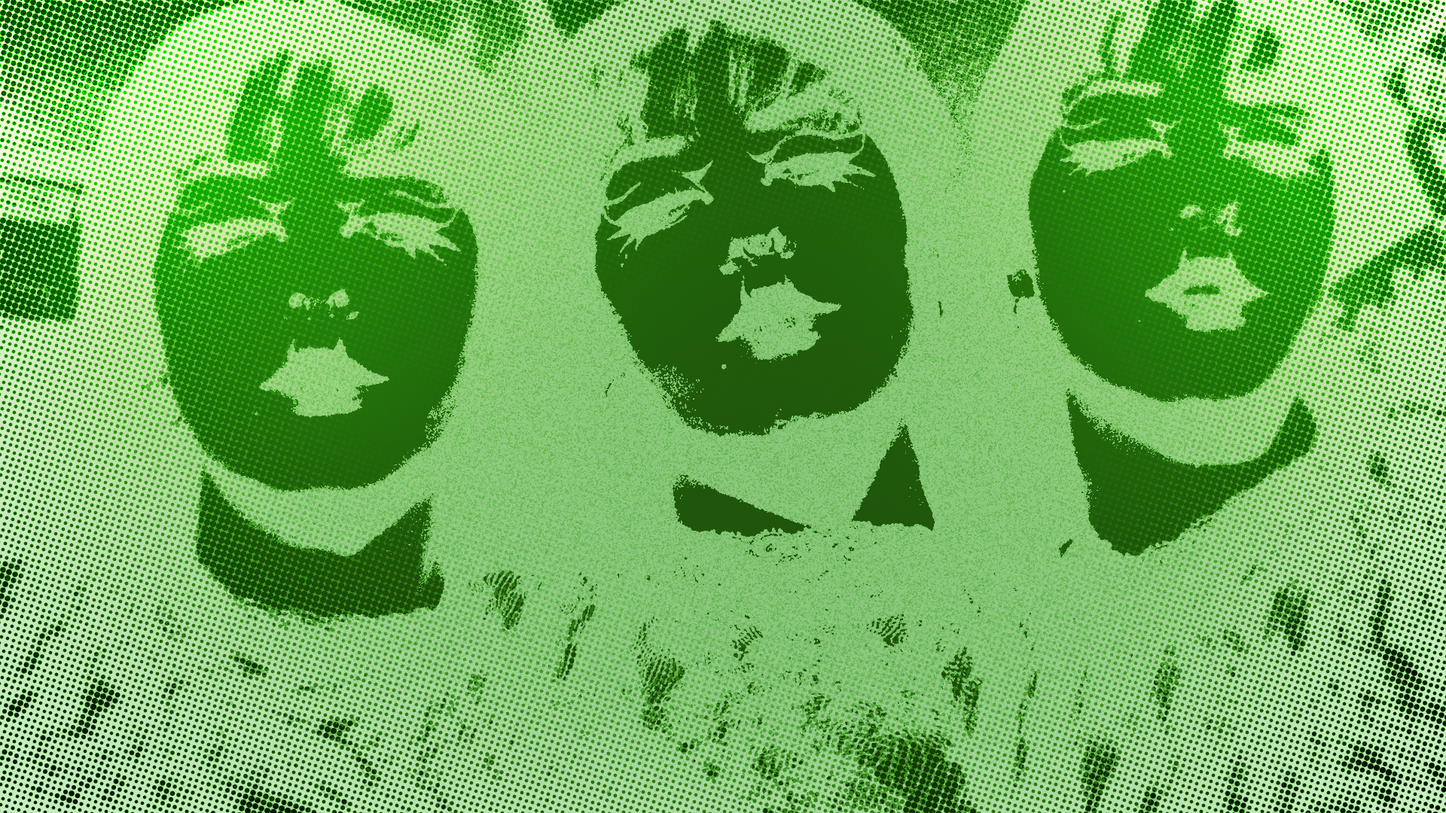
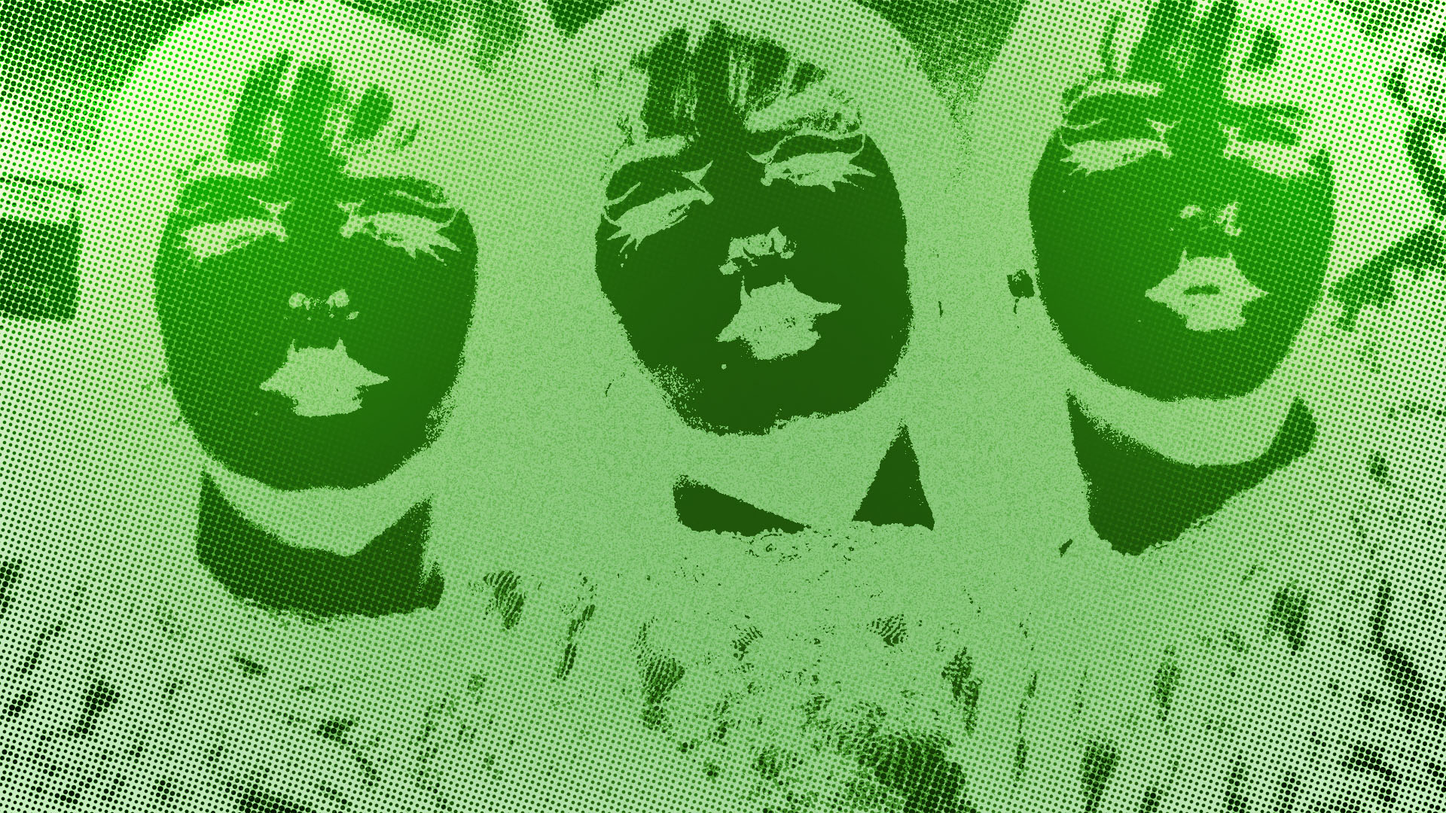
cambié la resolución de la img-portada1 y corregi el body del index (mil gracias profes)

Changed region(s): [[0.0, 0.0, 0.3438, 0.4278], [0.75, 0.0, 1.0, 0.4583], [0.125, 0.275, 0.1562, 0.3056]]

diff --git a/estilos.css b/estilos.css
@@ -18,6 +18,10 @@ body {
     max-width: 100%;
     scrollbar-gutter: stable;
     cursor: url(img/cursor.png), auto;
+    min-height: 100vh;
+    display: flex;
+    flex-direction: column;
+    justify-content: space-between;
 }
 
 * {
